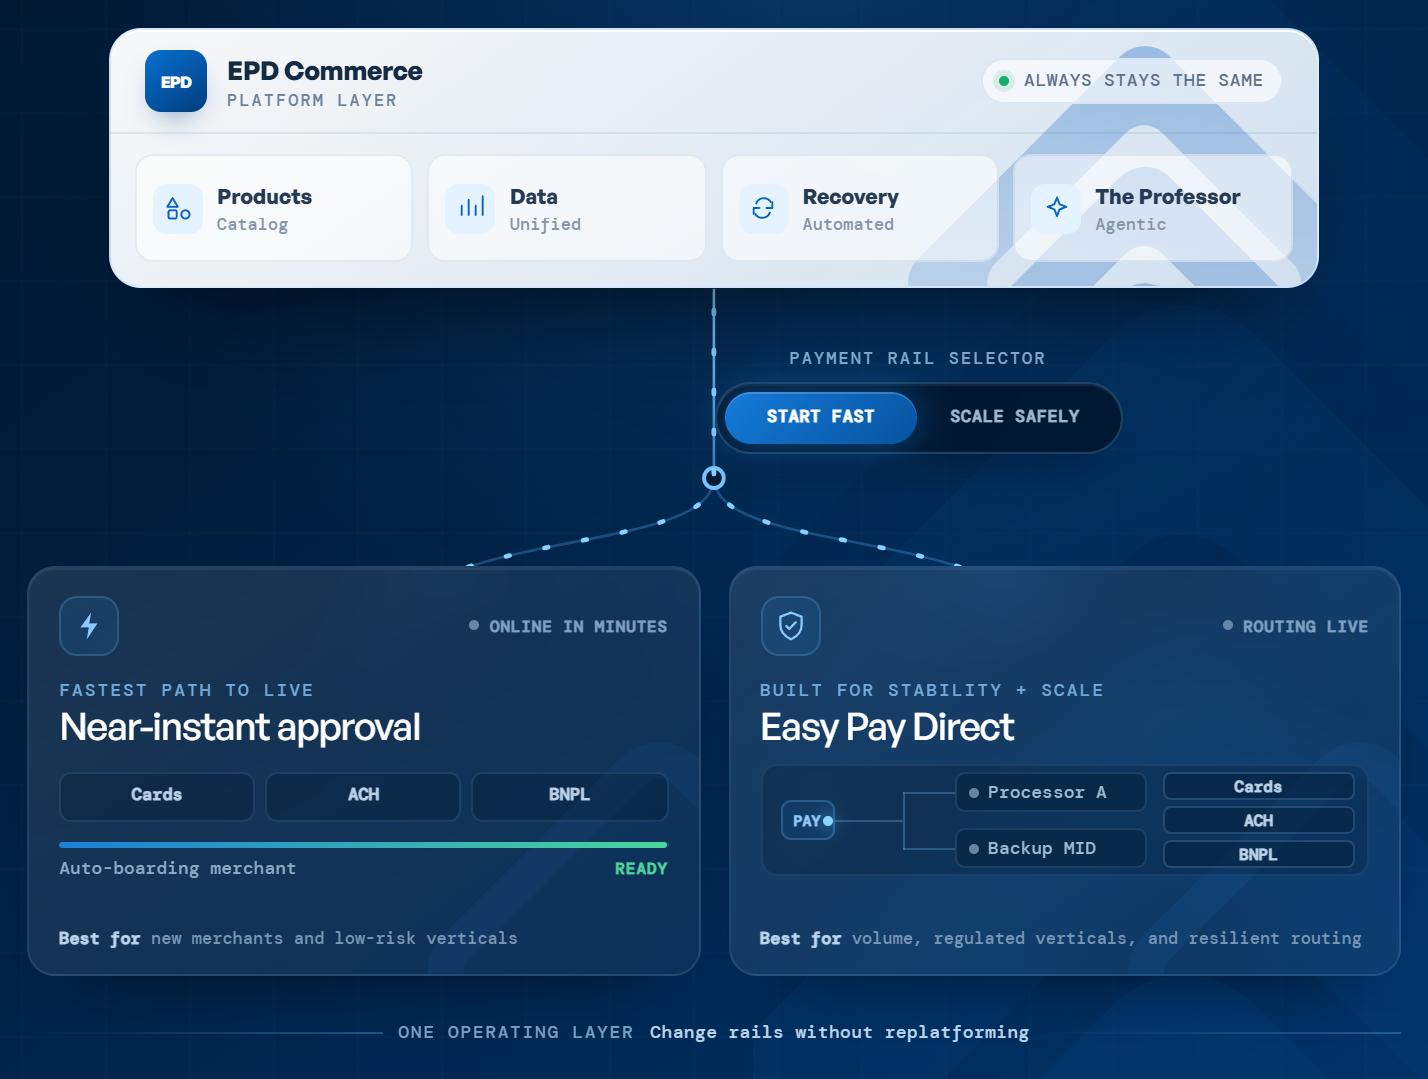
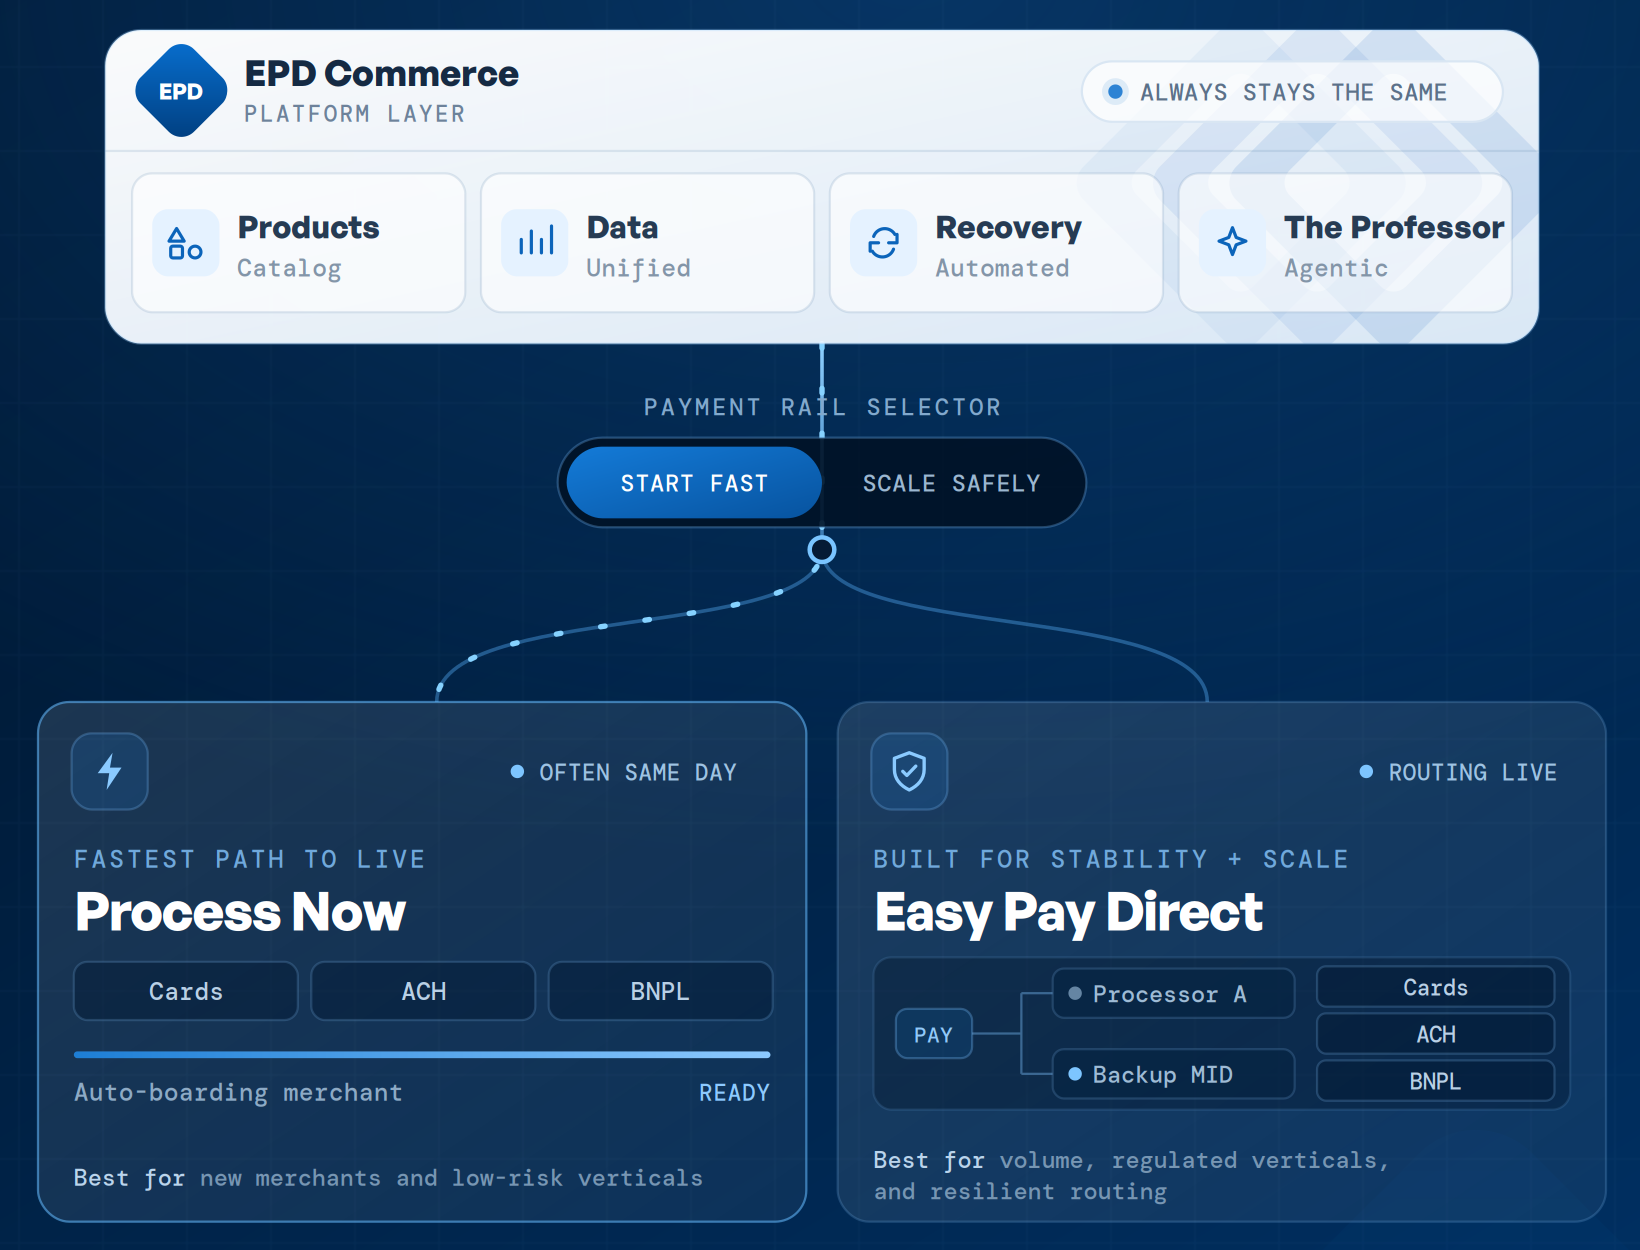
Replace Foundation diagram with current site artwork that names Process Now

diff --git a/templates/build.py b/templates/build.py
@@ -96,7 +96,7 @@ FAMILIES = {
                        "rules": ["Two equal cards, Process Now first. Each card: option logo or name, one fit line, one timing line.",
                                  "Card copy is fixed. Process Now: 'Low-risk, lower-volume businesses. Approval is often same day.' Easy Pay Direct: 'Full underwriting and white-glove service. Typically 1 to 3 days.'",
                                  "Card fill rgba(255,255,255,.06), 1px rgba(141,202,255,.25) border, 16px radius.",
-                                 "The Foundation diagram (assets/diagrams/foundation-diagram.png) may replace the cards in landscape only, once approved for partner use."]},
+                                 "The Foundation diagram (assets/diagrams/foundation-diagram.png) may replace the cards in landscape. The qualifier still appears."]},
         "illustration": False,
         "qualifier": "always required",
         "fixed_copy": {"headline_default": "Same platform. Same dashboard. Same catalog.",

diff --git a/assets/README.md b/assets/README.md
@@ -16,8 +16,9 @@ Partner use: **approved** = partners may use inside studio templates. **pending*
 | `logos/process-now-white.png` | Process Now, only where the two options are explained | Dark | Never | approved |
 | `logos/easy-pay-direct-white.png` | Easy Pay Direct, only where the two options are explained | Dark | Never | approved |
 | `payment-methods/` | Ways buyers can pay. See `SOURCES.md`. | Dark (white), light (brand color) | Never | pending |
-| `diagrams/foundation-diagram.png` | One platform over two processing options | Dark | Never through a card | pending |
-| `diagrams/foundation-section-site-capture.png` | Reference capture of the site section | n/a | n/a | no |
+| `diagrams/foundation-diagram.png` | One platform over Process Now and Easy Pay Direct. Qualifier required. | Dark | Never through a card | approved |
+| `diagrams/foundation-section.png` | Full Foundation section artwork. Qualifier required. | n/a | Use whole | approved |
+| `diagrams/foundation-section.svg` | Source vector (needs General Sans and DM Mono installed) | n/a | n/a | no |
 | `epd-commerce-features/<slug>/` | Product screenshots | Dark, white | Whole panels only, never through text or numbers | approved |
 | `backgrounds/dark-gradient-*.png` | Template backgrounds, story, square, landscape | n/a | Native size | approved |
 | `backgrounds/dark-gradient-highlight-*.png` | Same, with soft blue highlight behind imagery | n/a | Native size | approved |
@@ -25,6 +26,6 @@ Partner use: **approved** = partners may use inside studio templates. **pending*
 
 ## Notes
 
-- The Foundation diagram was captured from epd.com on 2026-10-15. Its left card says "Near-instant approval" instead of naming Process Now. Fix the site, recapture, then approve it for partners.
+- The Foundation artwork is marketing artwork, not a product screenshot. It shows "Often same day", so any graphic using it must include "All applications subject to review. Approval is not guaranteed."
 - Backgrounds are rendered from the site's dark section CSS: `linear-gradient(100deg, #002B55 0%, #001D3B 55%, #000E20 100%)`, with the highlight variant adding `radial-gradient(60% 80% at 78% 45%, rgba(40,120,220,.28), transparent 70%)`.
 - Numbers in screenshots are sample data. Never reuse them as claims.
